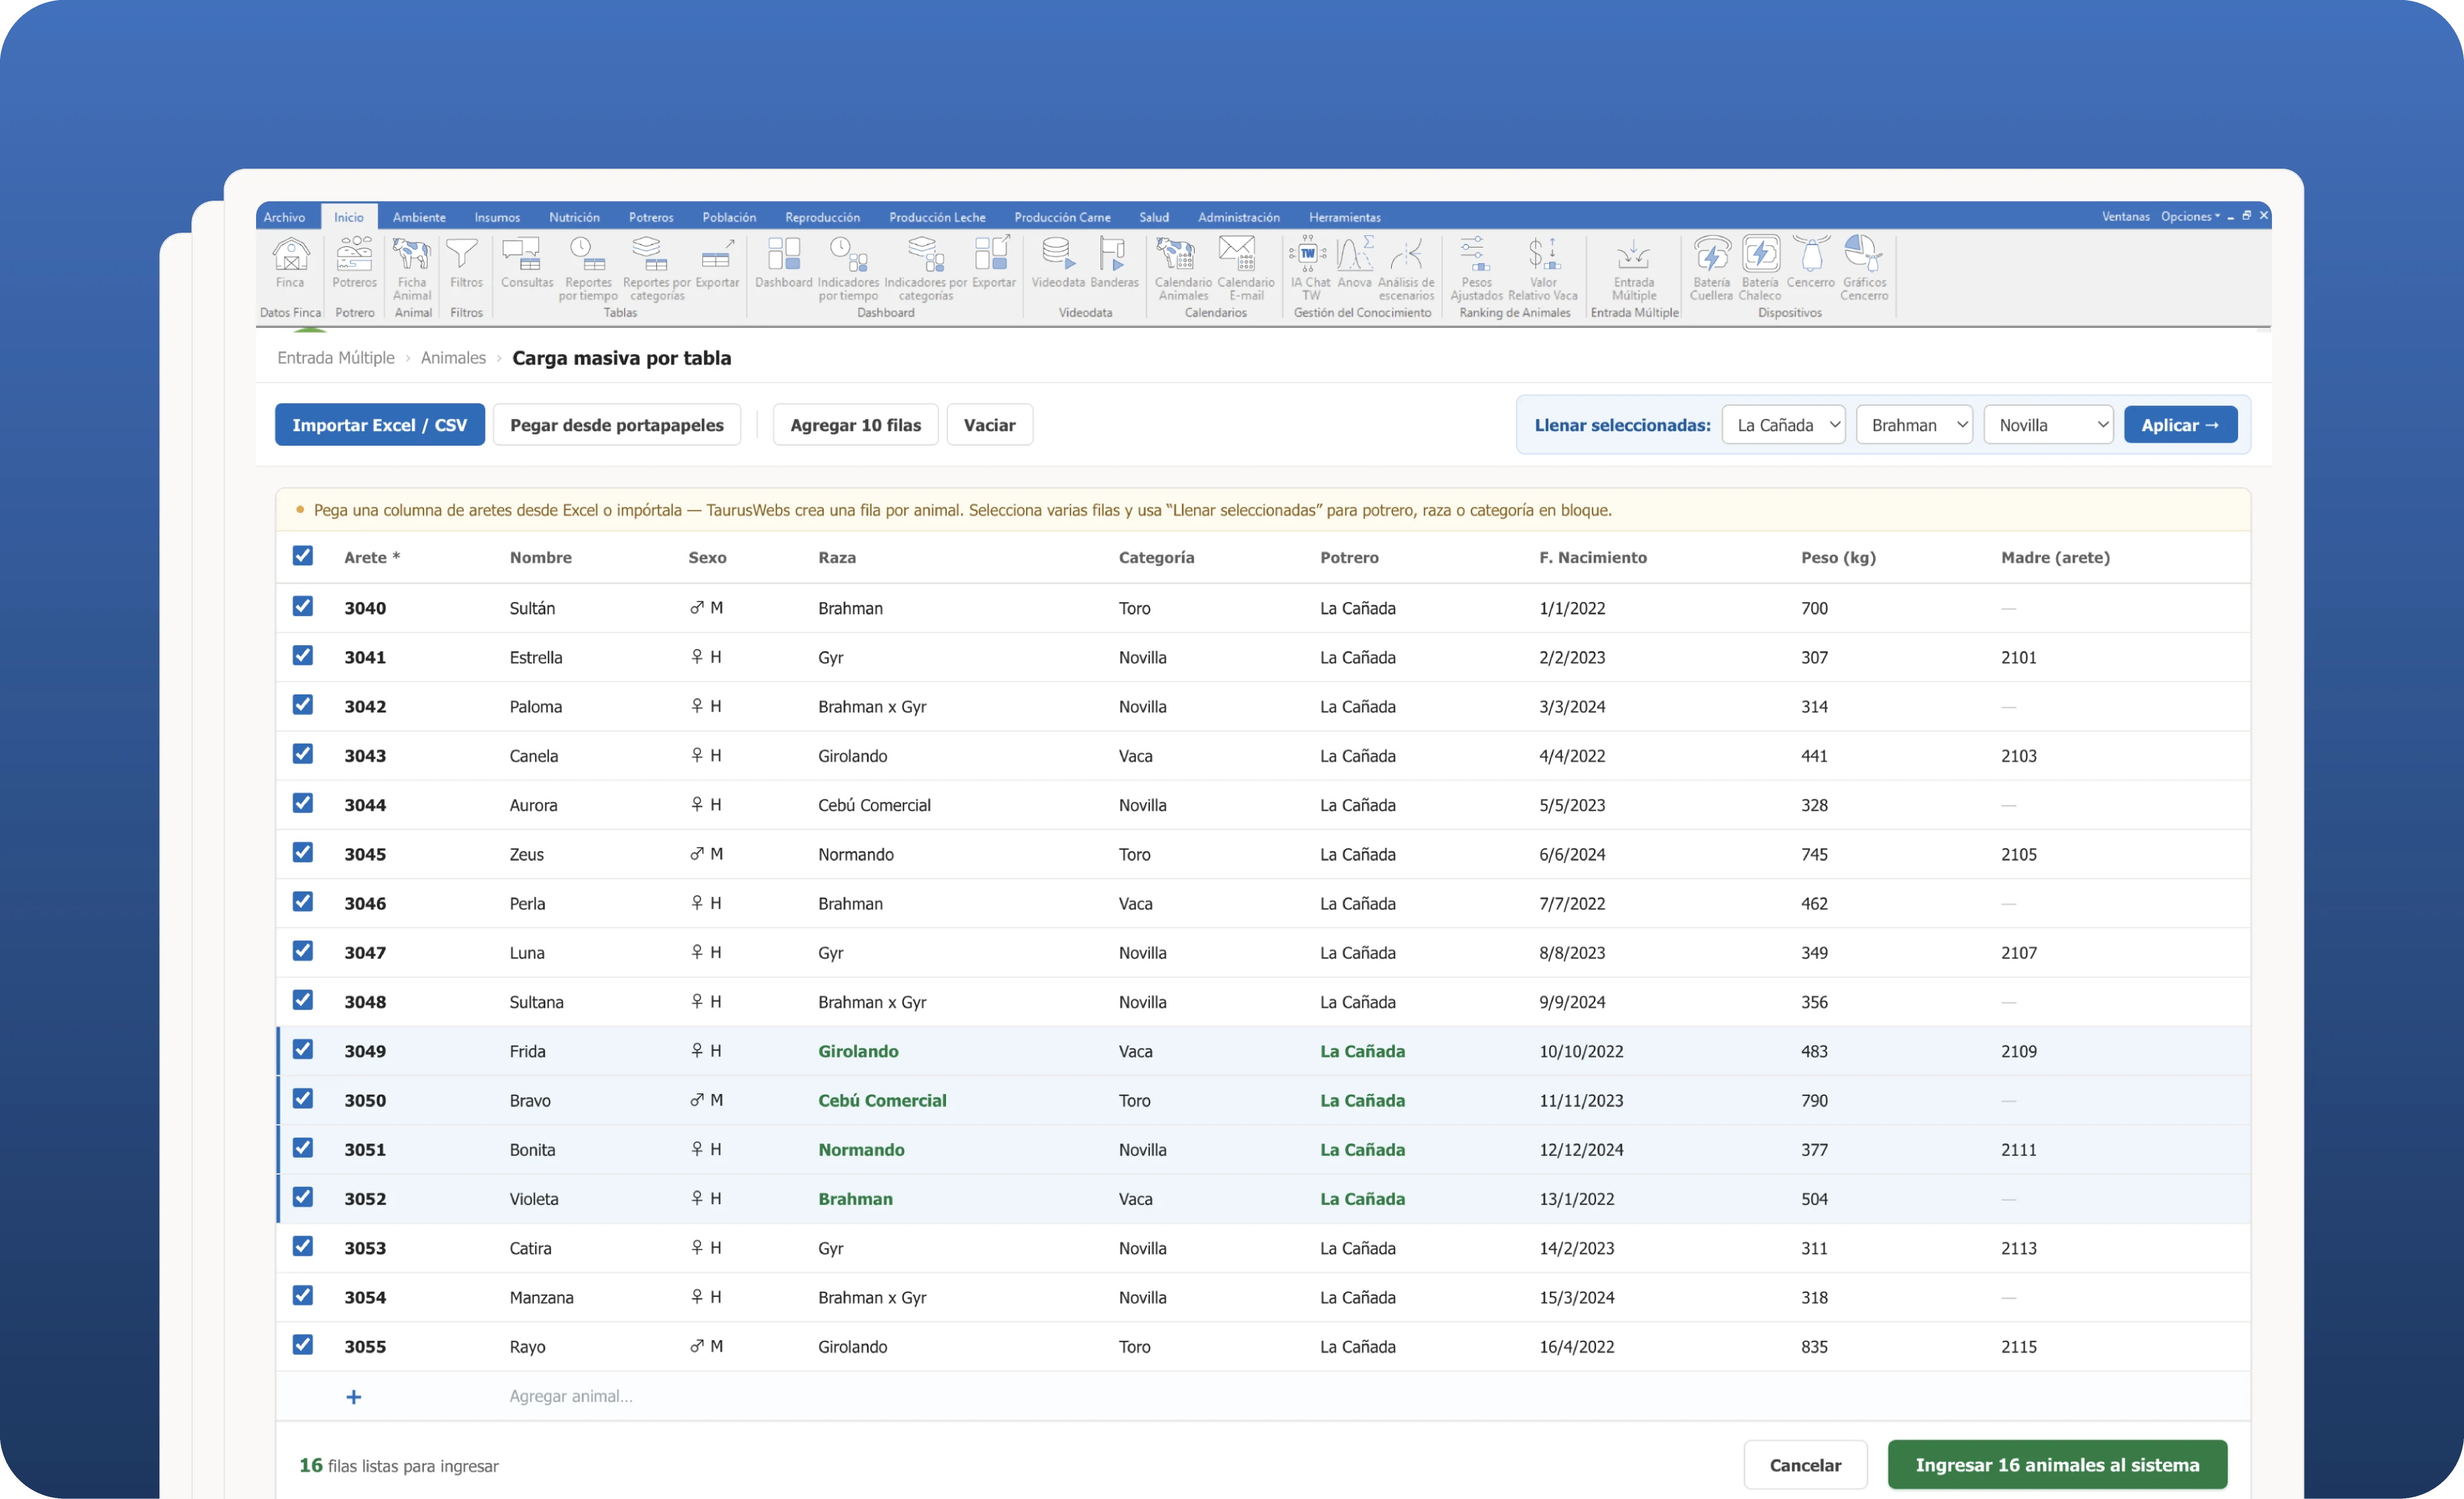
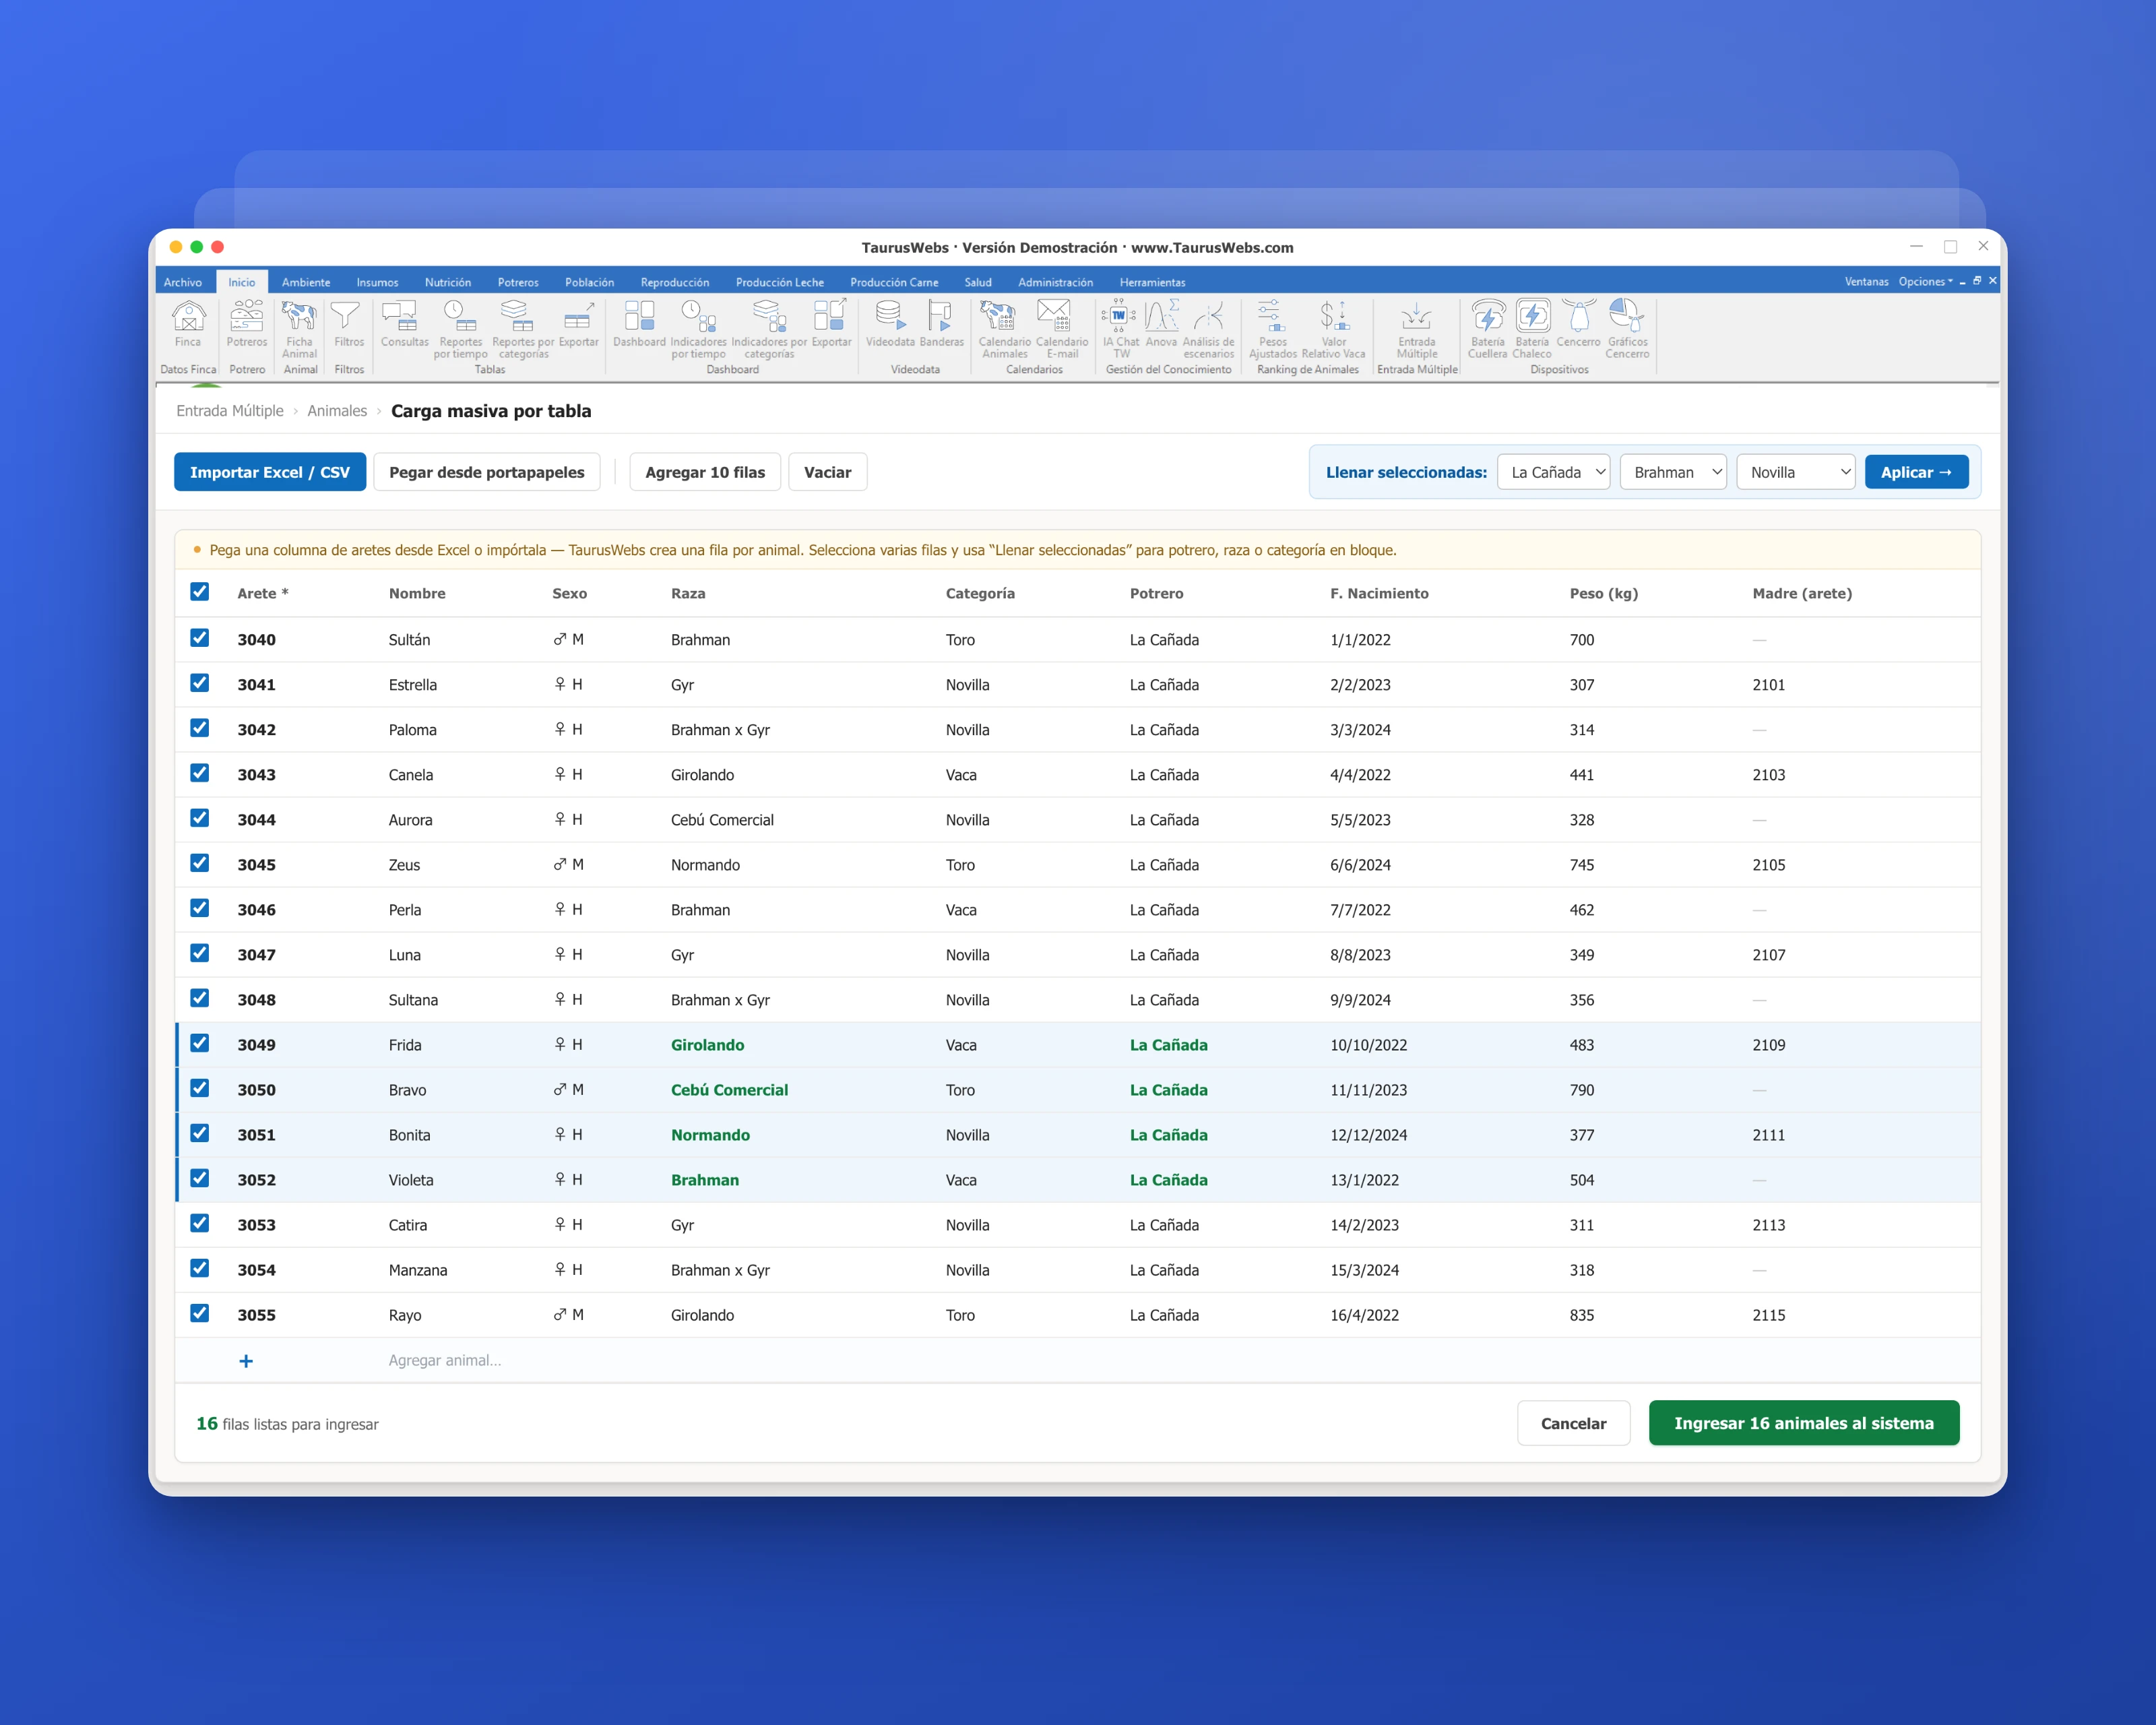
feat(taurus): framed UI hero for card (5:4) + case study cover (2:1)

diff --git a/app/work/taurus/page.tsx b/app/work/taurus/page.tsx
@@ -23,9 +23,8 @@ export default function TaurusPage() {
         note: "Real product work · no NDA · TaurusWebs livestock platform",
       }}
       cover={{
+        src: "/projects/taurus/hero.webp",
         alt: "Taurus — Bulk Farm Setup table",
-        gradient:
-          "bg-gradient-to-br from-[#16301f] via-[#3f6b3f] to-[#b9d27a]",
       }}
       sections={[
         {